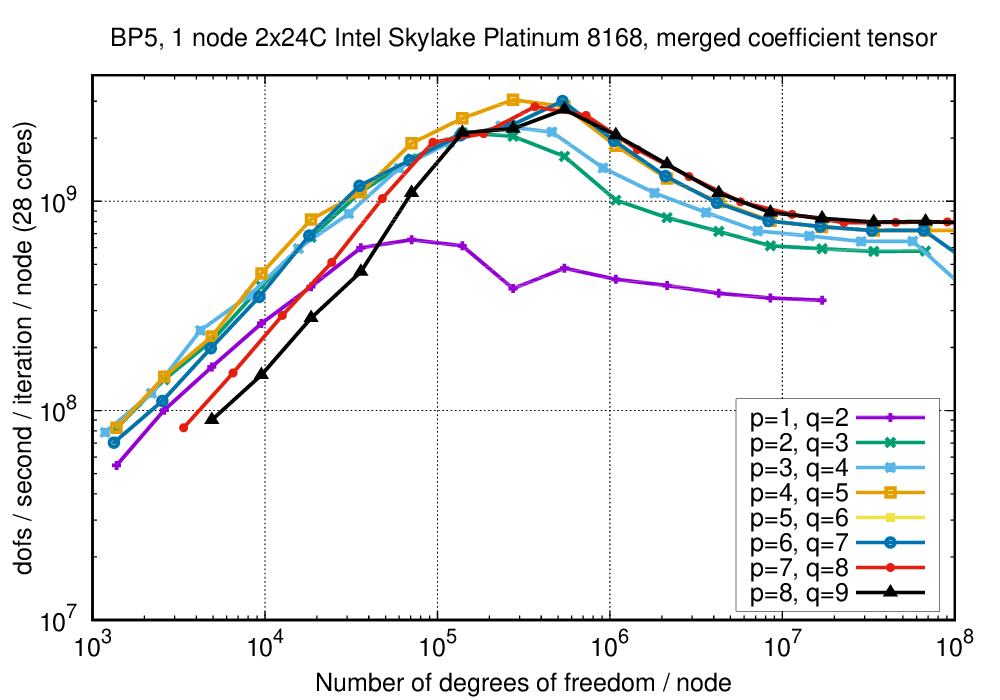
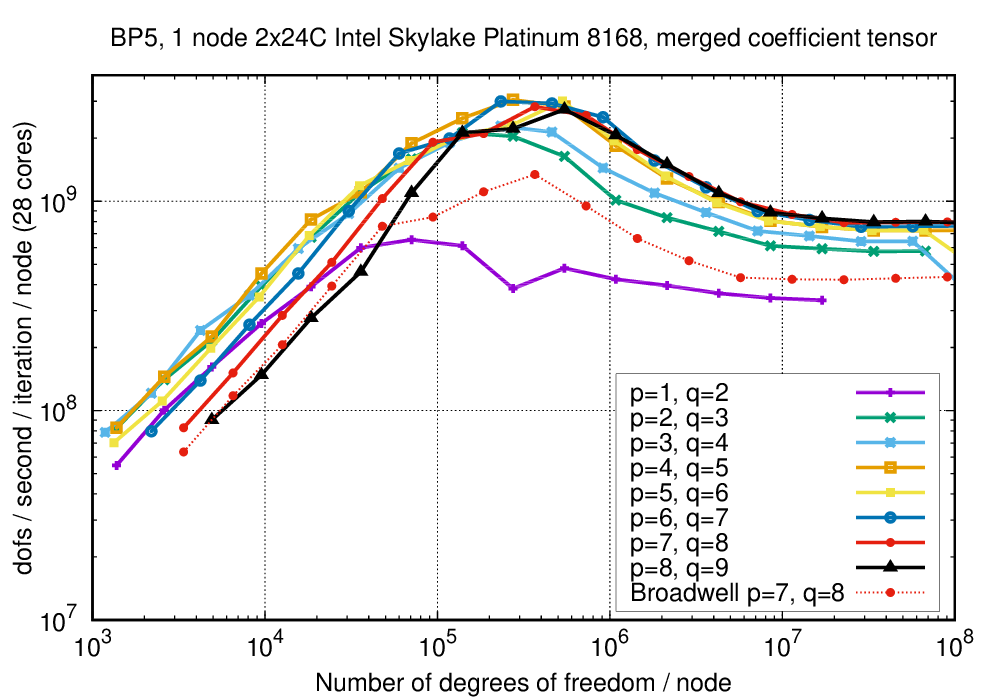
Comment Skylake results.

diff --git a/README.md b/README.md
@@ -129,6 +129,19 @@ on vector operations in the CG solver. Furthermore, we clearly see the effect
 of the L3 cache.
 ![alt text](https://github.com/kronbichler/ceed_benchmarks_dealii/blob/master/bp5/gnuplot/matvec_bdw.png)
 
+Next, we report results for a newer architecture, namely Intel Xeon Scalable
+Platinum 8168 (Skylake) with 2x24 cores. The BP5 benchmark runs about 1.85
+times (8.0e8 DoFs/sec/it on one node vs 4.3e8 DoFs/sec/it for *p*=7) as fast
+for large sizes that run from main memory. Near the peak at 500,000 DoFs per
+node, Skylake reaches 3.0e9 DoFs/s versus 1.3e9 on Broadwell. These values are
+close to the capabilities of hardware, as we have measured up to 220 GB/s of
+memory speed on Skylake versus 120 GB/s on Broadwell (1.83 times) and the
+arithmetic peak on Skylake at 3840 GFlops/node versus Broadwell's 1300
+GFlops/node (2.95 times, speedup was 2.31).
+![alt text](https://github.com/kronbichler/ceed_benchmarks_dealii/blob/master/bp5/gnuplot/bp5_skx.png)
+
+The matrix-vector product behaves similarly, again showing about a 2x boost by Skylake.
+![alt text](https://github.com/kronbichler/ceed_benchmarks_dealii/blob/master/bp5/gnuplot/matvec_skx.png)
 
 ### Literature
 
